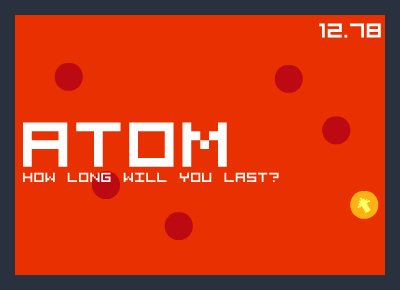
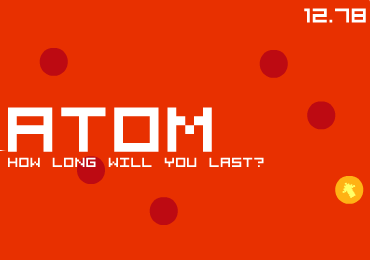
Updated images

diff --git a/css/style.css b/css/style.css
@@ -173,6 +173,10 @@ section {
     margin: 0 0 20px;
 }
 
+img {
+    border:15px solid #2A313E;
+}
+
 /* Contact Links */
 
 a .fa {
